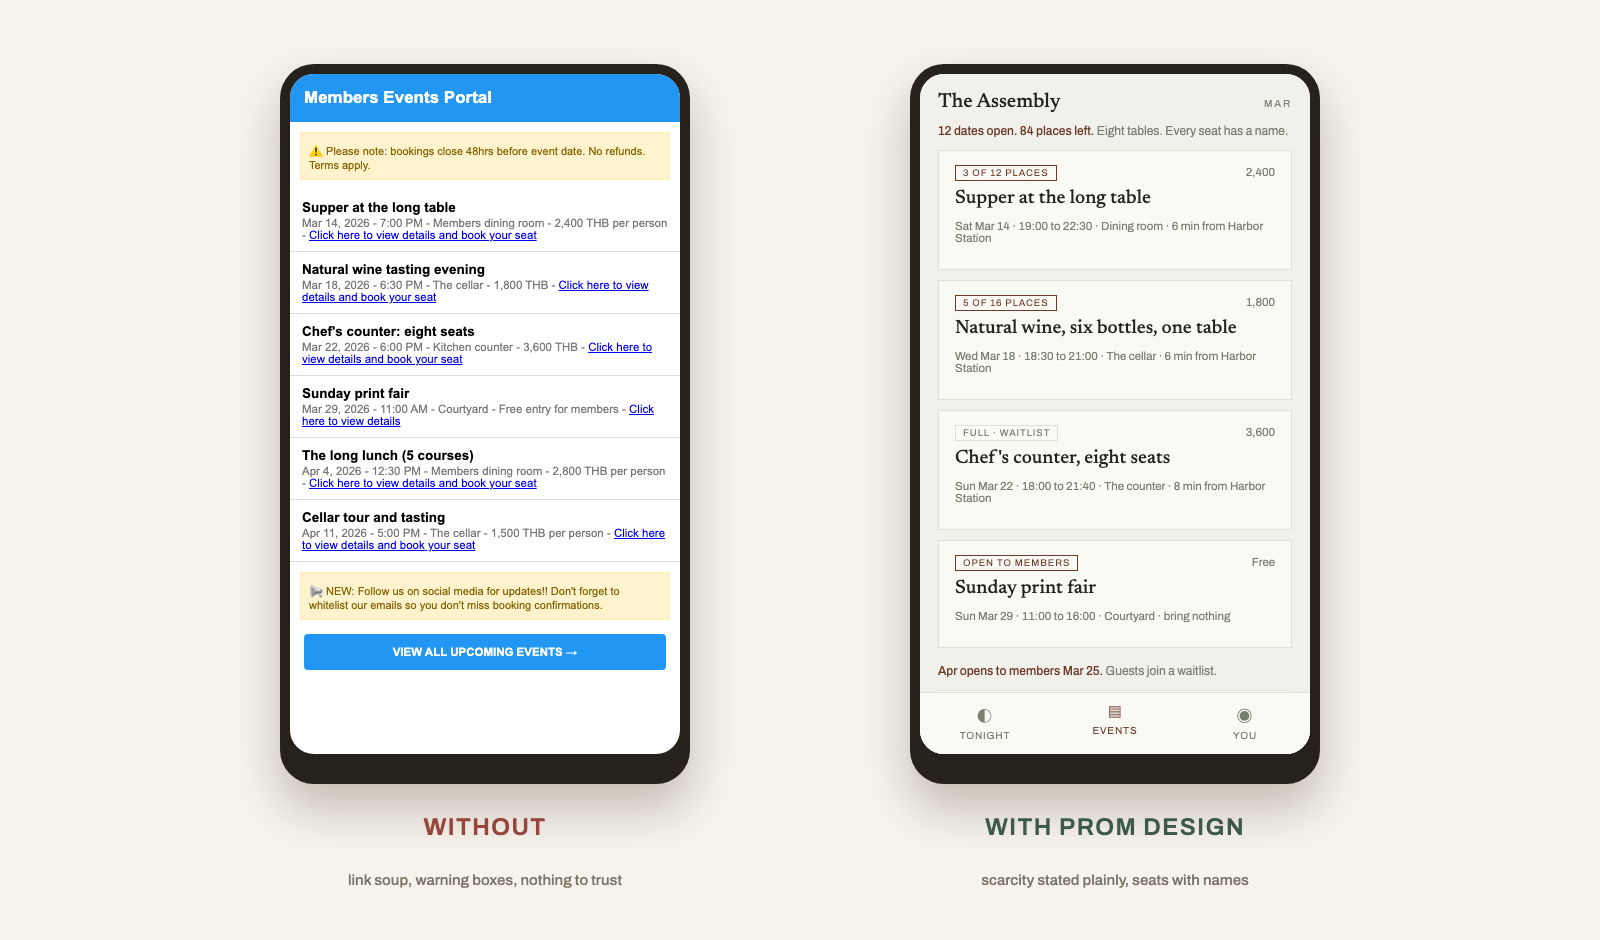
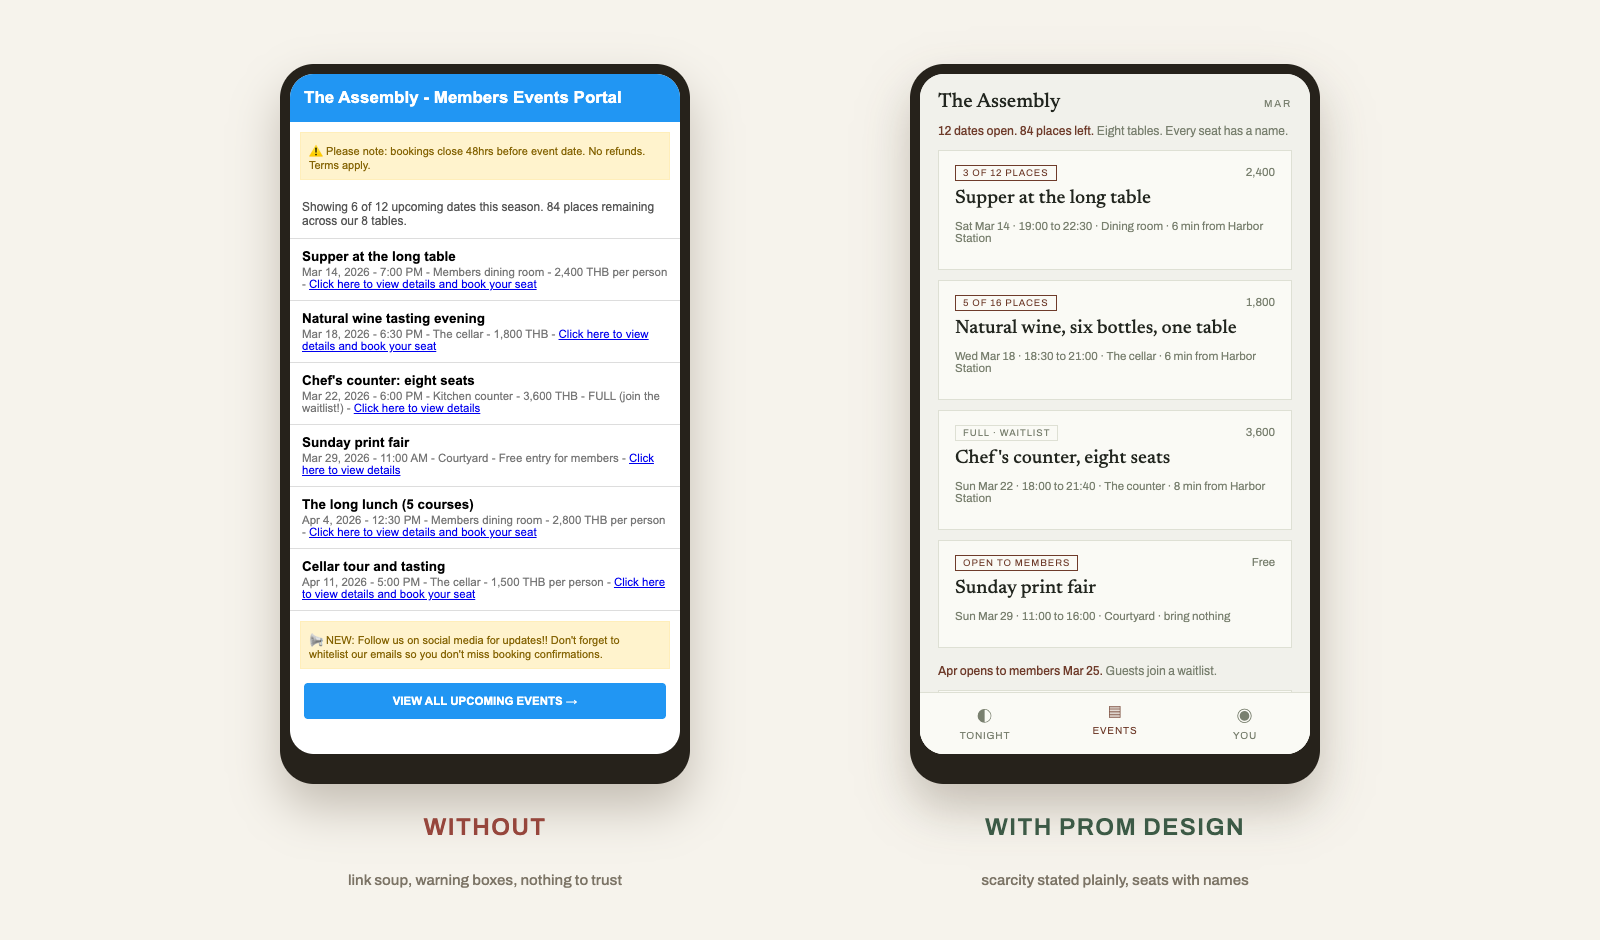
Every pair passes the stranger test: brand name at hero weight on both sides, subject-true imagery, mirrored facts

Changed region(s): [[0.1875, 0.216, 0.4375, 0.7713], [0.1875, 0.0926, 0.4062, 0.1234]]

diff --git a/demo/assembly-mobile-without.html b/demo/assembly-mobile-without.html
@@ -1,4 +1,4 @@
-<!doctype html><html><head><meta charset="utf-8"><meta name="viewport" content="width=device-width, initial-scale=1"><title>Events</title>
+<!doctype html><html><head><meta charset="utf-8"><meta name="viewport" content="width=device-width, initial-scale=1"><title>The Assembly - Events</title>
 <style>body{margin:0;font-family:Arial,sans-serif;font-size:13px}
 .h{background:#2196F3;color:#fff;padding:14px;font-size:17px;font-weight:bold}
 ul{list-style:none;margin:0;padding:0}
@@ -9,12 +9,13 @@ a{color:#0000EE;text-decoration:underline;font-size:11.5px}
 .btn{display:block;margin:14px;background:#2196F3;color:#fff;text-align:center;padding:12px;border-radius:4px;font-weight:bold;text-decoration:none}
 .warn{background:#FFF3CD;border:1px solid #FFEEBA;color:#856404;margin:10px;padding:8px;font-size:11px}
 </style></head><body>
-<div class="h">Members Events Portal</div>
+<div class="h">The Assembly - Members Events Portal</div>
 <div class="warn">⚠ Please note: bookings close 48hrs before event date. No refunds. Terms apply.</div>
+<div style="padding:10px 12px;font-size:12px;color:#555;border-bottom:1px solid #ddd">Showing 6 of 12 upcoming dates this season. 84 places remaining across our 8 tables.</div>
 <ul>
 <li><b>Supper at the long table</b><div class="d">Mar 14, 2026 - 7:00 PM - Members dining room - 2,400 THB per person - <a href="#">Click here to view details and book your seat</a></div></li>
 <li><b>Natural wine tasting evening</b><div class="d">Mar 18, 2026 - 6:30 PM - The cellar - 1,800 THB - <a href="#">Click here to view details and book your seat</a></div></li>
-<li><b>Chef's counter: eight seats</b><div class="d">Mar 22, 2026 - 6:00 PM - Kitchen counter - 3,600 THB - <a href="#">Click here to view details and book your seat</a></div></li>
+<li><b>Chef's counter: eight seats</b><div class="d">Mar 22, 2026 - 6:00 PM - Kitchen counter - 3,600 THB - FULL (join the waitlist!) - <a href="#">Click here to view details</a></div></li>
 <li><b>Sunday print fair</b><div class="d">Mar 29, 2026 - 11:00 AM - Courtyard - Free entry for members - <a href="#">Click here to view details</a></div></li>
 <li><b>The long lunch (5 courses)</b><div class="d">Apr 4, 2026 - 12:30 PM - Members dining room - 2,800 THB per person - <a href="#">Click here to view details and book your seat</a></div></li>
 <li><b>Cellar tour and tasting</b><div class="d">Apr 11, 2026 - 5:00 PM - The cellar - 1,500 THB per person - <a href="#">Click here to view details and book your seat</a></div></li>

diff --git a/demo/ember-with.html b/demo/ember-with.html
@@ -91,10 +91,11 @@ footer{border-top:1px solid var(--line-soft);padding:34px 0 44px}
 <img src="https://images.unsplash.com/photo-1414235077428-338989a2e8c0?w=1600&q=80&auto=format&fit=crop" alt="The dining room at night, candlelit tables under low pendant lamps">
 <div class="grade"></div><span class="honesty">Demonstration imagery</span>
 <div class="content">
-<div><p class="eyebrow">Ember Café · Est. in a print shop</p>
-<h1>Bread proved overnight, then a <span class="script">fire</span> to come back to.</h1>
-<p class="sub">Seven copper kettles, and lunch that runs long. One room above the
-print shop, eight chairs, one seating a night.</p></div>
+<div><p class="eyebrow">Est. in a print shop</p>
+<h1>Ember <span class="script">Café</span></h1>
+<p class="sub">Bread proved overnight, then a fire to come back to. Seven copper
+kettles, and lunch that runs long; one room above the print shop, eight
+chairs, one seating a night.</p></div>
 <div class="bottom">
 <div class="proof">
 <div class="p"><b>8</b><span>chairs, one seating</span></div>
@@ -141,11 +142,11 @@ free they are yours.</p>
 <div class="meta"><span>Walk up · 18:40</span><b>1,650</b></div>
 </article>
 <article class="card">
-<p class="cat">Bread day</p>
-<h3>Sunday</h3>
-<p>The oven runs from 06:00. Loaves at 08:00 until they run out, and a lunch at
-12:30 that ends when it ends.</p>
-<div class="meta"><span>Loaves 95 · lunch 12:30</span><b>680</b></div>
+<p class="cat">Bread, daily</p>
+<h3>The loaves</h3>
+<p>Proved overnight, oven from 06:00 every morning. Loaves at 08:00 until they
+run out, and a Sunday lunch at 12:30 that ends when it ends.</p>
+<div class="meta"><span>Loaves 95 · Sun lunch 12:30</span><b>680</b></div>
 </article>
 </div>
 </div>

diff --git a/demo/northlight-without.html b/demo/northlight-without.html
@@ -1,4 +1,4 @@
-<!doctype html><html><head><meta charset="utf-8"><meta name="viewport" content="width=device-width, initial-scale=1"><title>My Portfolio</title>
+<!doctype html><html><head><meta charset="utf-8"><meta name="viewport" content="width=device-width, initial-scale=1"><title>Northlight - My Portfolio</title>
 <style>body{margin:20px;font-family:"Times New Roman",serif;text-align:center}
 h1{font-size:34px;margin:8px 0}p{font-size:15px;color:#333}
 a{color:#0000EE;text-decoration:underline;font-size:14px}
@@ -6,8 +6,8 @@ a{color:#0000EE;text-decoration:underline;font-size:14px}
 .imgs img{width:100%;height:150px;object-fit:cover}
 hr{margin:16px 0}
 </style></head><body>
-<h1>Welcome To My Photography Portfolio!!</h1>
-<p>Hi, I take photos of landscapes, mostly in the evenings when the light is nice. Over 41,800 photos taken so far! Prints available in many sizes, contact me for prices (negotiable).</p>
+<h1>Welcome To Northlight Photography!!</h1>
+<p>Hi, I take photos of landscapes, mostly in the evenings when the light is nice. Over 41,800 photos taken so far! Prints available in many sizes from 9,500, contact me for exact prices (negotiable).</p>
 <p><a href="#">Home</a> | <a href="#">Gallery</a> | <a href="#">About Me</a> | <a href="#">Contact</a> | <a href="#">Prices</a></p>
 <hr>
 <div class="imgs">

diff --git a/demo/with-skill.html b/demo/with-skill.html
@@ -48,16 +48,17 @@ padding:5px 10px;backdrop-filter:blur(2px)}
   <span class="honesty">Demonstration imagery</span>
   <div class="content">
     <div>
-      <p class="eyebrow">Aura Heights · On the bay</p>
-      <h1>Ninety seconds from the pier, <span class="script">thirty-eight</span> metres above it.</h1>
-      <p class="sub">Forty-eight residences on the headland, each filmed in 4K
-      before you visit, so the first thing you see in person is something you
-      already trust.</p>
+      <p class="eyebrow">Residences on the bay</p>
+      <h1>Aura <span class="script">Heights</span></h1>
+      <p class="sub">Ninety seconds from the pier, thirty-eight metres above it.
+      Forty-eight residences on the headland, each filmed in 4K before you
+      visit, so the first thing you see in person is something you already
+      trust.</p>
     </div>
     <div class="bottom">
       <div class="proof">
         <div class="p"><b>48</b><span>residences, all filmed</span></div>
-        <div class="p"><b>217.40 sqm</b><span>largest plan, measured</span></div>
+        <div class="p"><b>38 m</b><span>above the bay, surveyed</span></div>
         <div class="p"><b>90 sec</b><span>walk to the pier, timed</span></div>
       </div>
       <a class="cta" href="#">Book the viewing</a>

diff --git a/demo/fern-with.html b/demo/fern-with.html
@@ -42,14 +42,14 @@ footer a{color:var(--accent)}
 </style></head><body>
 
 <div class="hero">
-<img src="https://images.unsplash.com/photo-1470071459604-3b5ec3a7fe05?w=1600&q=80&auto=format&fit=crop" alt="">
+<img src="https://images.unsplash.com/photo-1457089328109-e5d9bd499191?w=1600&q=80&auto=format&fit=crop" alt="">
 <div class="grade"></div><span class="honesty">Demonstration imagery</span>
 <div class="hcontent">
-<p class="eyebrow">Fern and Fog · In the hills</p>
-<h1>Cut in the <i>rain</i>, sold before the fog lifts.</h1>
-<p class="sub">A family flower shop. The cutting rows are forty steps behind the
-counter, whatever the weather allows goes into the window at eight, and by
-evening it is gone.</p>
+<p class="eyebrow">Flower shop · In the hills</p>
+<h1>Fern and <i>Fog</i></h1>
+<p class="sub">Cut in the rain, sold before the fog lifts. A family flower shop;
+whatever the weather allows goes into the window at eight, and by evening it
+is gone.</p>
 <a class="cta" href="#jar">Order this week's flowers</a>
 </div>
 </div>

diff --git a/demo/ledgerline-without.html b/demo/ledgerline-without.html
@@ -35,7 +35,7 @@ table{min-width:520px}
 <a href="#">📄 Invoices</a><a href="#">👥 Clients</a><a href="#">🔁 Recurring Billing</a><a href="#">📊 Reports &amp; Analytics</a><a href="#">⚙ Settings</a><a href="#">❓ Help Center</a>
 </div>
 <div class="main">
-<p class="stats">Collected this month: <b>412,900</b> &nbsp;|&nbsp; Outstanding: <b>86,400</b> (3 due this week) &nbsp;|&nbsp; Median time to paid: <b>11 days</b></p>
+<p class="stats">Collected this month: <b>412,900</b> &nbsp;|&nbsp; Outstanding: <b>86,400</b> (2 due this week) &nbsp;|&nbsp; Median time to paid: <b>11 days</b></p>
 <div class="btnrow"><button class="btn">+ NEW INVOICE</button><button class="btn2">EXPORT TO EXCEL</button><button class="btn2">PRINT VIEW</button><button class="btn2">REFRESH</button></div>
 <div class="tablewrap"><table>
 <tr><th>No.</th><th>Client Name</th><th>Date Issued</th><th>Amount</th><th>Status</th><th>Actions</th></tr>

diff --git a/index.html b/index.html
@@ -73,7 +73,7 @@ brand, same one-line request, one difference: the skill. Every pair is the SAME 
 </div>
 
 <h2>A florist in a rainy hill town</h2>
-<p class="note">The same shop twice: hero, three services, the weekly jar, a testimonial, hours. Hot-pink template slop against the shop's own window on a wet morning. Direction: Rain jar.</p>
+<p class="note">The same shop twice: hero, three services, the weekly jar, a testimonial, hours. Hot-pink template slop against the same flowers taken seriously. Direction: Rain jar.</p>
 <div class="pair">
 <a class="card wo" href="demo/fern-without.html"><img src="demo/fern-without.png" alt="Fern and Fog without" loading="lazy"><div class="cap"><b>WITHOUT</b><span>open live page</span></div></a>
 <a class="card wi" href="demo/fern-with.html"><img src="demo/fern-with.png" alt="Fern and Fog with" loading="lazy"><div class="cap"><b>WITH PROM DESIGN</b><span>open live page</span></div></a>

diff --git a/demo/northlight-with.html b/demo/northlight-with.html
@@ -11,7 +11,7 @@ document.documentElement.classList.add('js')</script>
 .grade{position:absolute;inset:0;background:linear-gradient(0deg,rgba(8,11,13,.72) 0%,rgba(8,11,13,.08) 42%),linear-gradient(180deg,rgba(8,11,13,.42) 0%,rgba(8,11,13,0) 26%)}
 .honesty{position:absolute;right:18px;top:18px;font-size:9px;letter-spacing:.18em;text-transform:uppercase;color:rgba(232,237,239,.85);background:rgba(8,11,13,.45);padding:5px 10px}
 .top{position:absolute;top:0;left:0;right:0;display:flex;justify-content:space-between;align-items:center;padding:30px 48px;z-index:2}
-.wordmark{font-family:"Newsreader",serif;font-size:21px;letter-spacing:.06em}
+.wordmark{font-family:"Newsreader",serif;font-size:29px;letter-spacing:.05em}
 .nav{display:flex;gap:30px}
 .nav a{color:rgba(232,237,239,.75);text-decoration:none;font-size:11px;letter-spacing:.22em;text-transform:uppercase}
 .nav a:hover{color:#9FB6BF}

diff --git a/demo/assembly-mobile-with.html b/demo/assembly-mobile-with.html
@@ -38,5 +38,9 @@ body{padding-bottom:64px}
 <div class="card"><div class="row1"><span class="chip">Members first</span><span class="meta">2,800</span></div>
 <p class="t">The long lunch, five courses</p>
 <p class="meta">Sat Apr 04 · 12:30 to 16:00 · Dining room · 6 min from Harbor Station</p></div>
+<div class="card"><div class="row1"><span class="chip">Members first</span><span class="meta">1,500</span></div>
+<p class="t">Cellar tour and tasting</p>
+<p class="meta">Sat Apr 11 · 17:00 to 19:00 · The cellar · 6 min from Harbor Station</p></div>
+<p class="scarce" style="margin:14px 18px 12px">Bookings close 48 hours before each date; no refunds after they close.</p>
 <nav class="tab"><a href="#"><span>◐</span>Tonight</a><a class="on" href="#"><span>▤</span>Events</a><a href="#"><span>◉</span>You</a></nav>
 </body></html>

diff --git a/demo/ledgerline-with.html b/demo/ledgerline-with.html
@@ -72,7 +72,7 @@ tr.empty .er a{display:inline-flex;align-items:center;min-height:44px;padding:0 
 </style></head><body>
 <div class="app">
 <div class="side"><p class="logo">Ledgerline</p>
-<nav class="nav"><a class="on" href="#">Invoices</a><a class="peek" href="#">Clients <span class="n">5</span></a><a href="#">Recurring</a><a href="#">Reports</a><a href="#">Settings</a></nav>
+<nav class="nav"><a class="on" href="#">Invoices</a><a class="peek" href="#">Clients <span class="n">5</span></a><a href="#">Recurring</a><a href="#">Reports</a><a href="#">Settings</a><a href="#">Help</a></nav>
 <div class="tease"><span class="tz-eye">Next · Clients</span>
 <p>5 clients billed this month. 2 carry an open balance: Ember Café and The Assembly.</p>
 <a href="#">Open Clients</a></div></div>

diff --git a/demo/ember-without.html b/demo/ember-without.html
@@ -24,5 +24,9 @@
 <div class="card"><div class="i">📅</div><h3>Limited Dates</h3><p>Only 12 dates open this season, book early!!</p></div>
 <div class="card"><div class="i">🔥</div><h3>Copper Kettles</h3><p>Seven copper kettles and lunches that run long</p></div>
 </div>
+<div style="padding:0 20px 40px">
+<h2 style="margin:0 0 6px;font-size:24px">📋 Our Menu 📋</h2>
+<p style="margin:0;color:#777;font-size:14px;max-width:560px;margin:0 auto">5-course set dinner 1,650 per person!! Walk-in counter seats 1,650. Sunday bread lunch only 680! Find us upstairs in the old print shop!!</p>
+</div>
 <div class="strip">⏰ Doors open 6:40PM SHARP!! Only 8 seats per night, book NOW before it's too late!!! ⏰</div>
 </body></html>

diff --git a/README.md b/README.md
@@ -100,7 +100,7 @@ versus an instrument you could run a business on.
 | Without | With Prom Design |
 |:---:|:---:|
 | <img src="demo/ledgerline-without.png" width="460"> | <img src="demo/ledgerline-with.png" width="460"> |
-| Alert banners, Verdana, Delete links | 412,900 collected, 3 due this week, tabular numerals |
+| Alert banners, Verdana, Delete links | 412,900 collected, 2 due this week, tabular numerals |
 
 **A portfolio.** The my-first-website special, versus a page that costs what
 your work costs.
@@ -112,7 +112,7 @@ your work costs.
 
 **A florist in a rainy hill town.** The same shop twice, section for
 section: three services, the weekly jar at 340 a month, the testimonial, the
-hours. Hot-pink template slop versus the shop's own window on a wet morning.
+hours. Hot-pink template slop versus the same flowers taken seriously.
 
 | Without | With Prom Design |
 |:---:|:---:|
